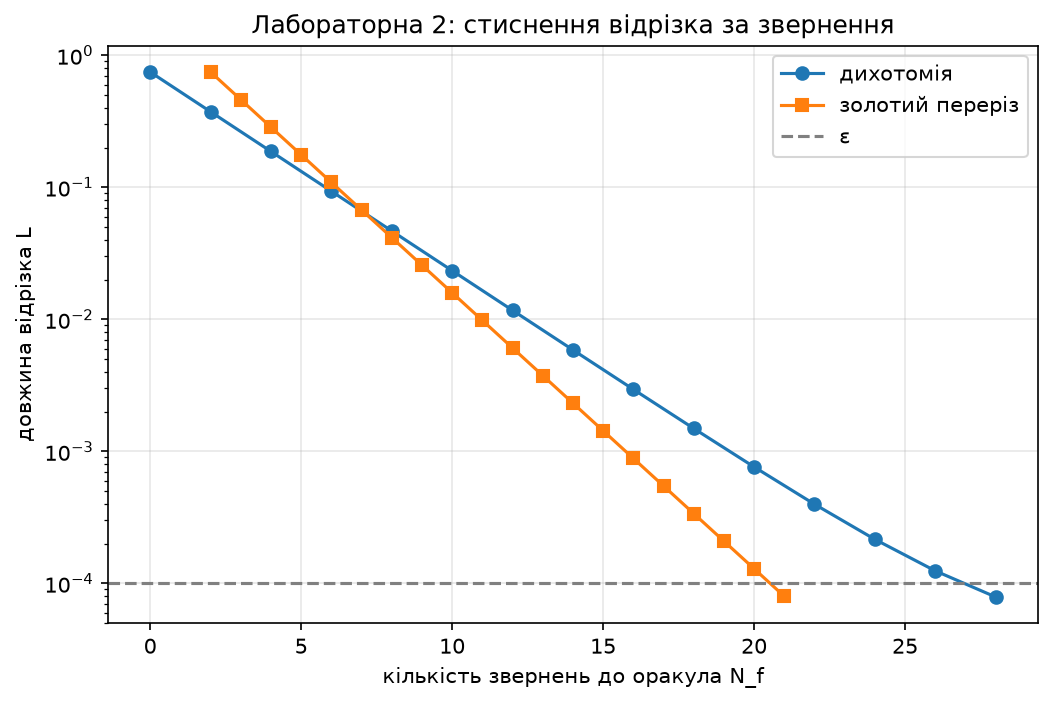
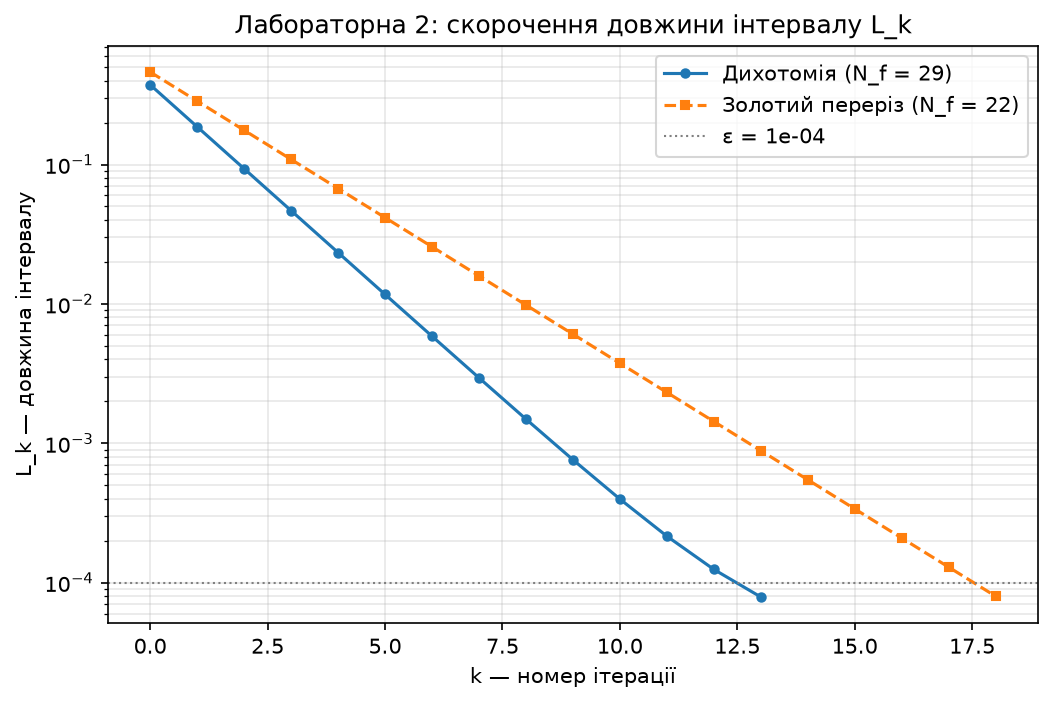
Додано файли проєкту

diff --git a/projectopt/main_lab2.py b/projectopt/main_lab2.py
@@ -15,21 +15,38 @@ from src.lab1_svenn import svenn
 from src.lab2_search import dichotomy, golden_section, TAU
 
 
-def print_rows(rows, head=6, tail=1):
-    print(f"{'k':>3} {'a_k':>9} {'b_k':>9} {'x1':>9} {'x2':>9} "
-          f"{'f(x1)':>11} {'f(x2)':>11} {'L_k':>10}  Рішення")
-    shown = rows[:head] + ([None] if len(rows) > head + tail else []) + rows[-tail:]
-    for r in shown:
-        if r is None:
-            print("  …")
-            continue
-        print(f"{r['k']:>3} {r['a']:>9.6f} {r['b']:>9.6f} {r['x1']:>9.6f} {r['x2']:>9.6f} "
-              f"{r['f1']:>11.8f} {r['f2']:>11.8f} {r['L']:>10.3e}  {r['decision']}")
+def fmt(x):
+    """Число як у таблицях сайту: 4 знаки після коми, без зайвих нулів (0.008, 0.712)."""
+    if x == 0:
+        return "0"
+    s = f"{x:.5f}" if abs(x) < 1e-4 else f"{x:.4f}"
+    return s.rstrip("0").rstrip(".")
 
 
-def compression(L_end, L0, n_f):
-    """Стиснення на одне звернення: (L_end / L0) ** (1 / N_f)."""
-    return (L_end / L0) ** (1.0 / n_f)
+def site_decision(text):
+    """Текст рішення в тому самому записі, що й на сайті."""
+    text = text.replace("→", "->").replace("успадкували", "успадковано")
+    return " ".join(text.split())
+
+
+def print_full_table(rows, golden=False):
+    """Друкує ВСІ рядки таблиці ітерацій (у форматі сайту)."""
+    head = (f"{'k':>3} {'a_k':>8} {'b_k':>8} {'x1':>8} {'x2':>8} "
+            f"{'f(x1)':>8} {'f(x2)':>8} {'L_k':>8}")
+    if golden:
+        head += f" {'Нова точка':>10}"
+    print(head + "  Рішення")
+    for r in rows:
+        line = (f"{r['k']:>3} {fmt(r['a']):>8} {fmt(r['b']):>8} {fmt(r['x1']):>8} {fmt(r['x2']):>8} "
+                f"{fmt(r['f1']):>8} {fmt(r['f2']):>8} {fmt(r['L']):>8}")
+        if golden:
+            line += f" {fmt(r['new']):>10}"
+        print(line + "  " + site_decision(r["decision"]))
+
+
+def compression(L_start, L_end, n_f):
+    """Стиснення на одне звернення: (L_кінець / L_початок) ** (1 / N_f)."""
+    return (L_end / L_start) ** (1.0 / n_f)
 
 
 def main():
@@ -44,6 +61,7 @@ def main():
     a0, b0 = br["a"], br["b"]
     L0 = b0 - a0
     print(f"Свенн: [{a0:.4f}, {b0:.4f}]  L0 = {L0:.4f}  N_f = {br['n_f']}")
+    print(f"Початковий інтервал з лаб. 1: [a0, b0] = [{a0:.6f}, {b0:.6f}], точність ε = {EPS:.0e}")
     print(f"tau = {TAU:.10f}   tau^2 = {TAU**2:.10f}   1 - tau = {1 - TAU:.10f}")
 
     # ---------- ручний перший крок ----------
@@ -55,37 +73,47 @@ def main():
     print(f"золотий,   1-й крок: x1 = {x1g:.7f}, x2 = {x2g:.7f}, "
           f"f = {oracle.peek(x1g):.8f}, {oracle.peek(x2g):.8f}")
 
-    # ---------- основні запуски (reset між методами обов'язковий!) ----------
+    # ---------- основні запуски ----------
     oracle.reset()
     res_d = dichotomy(oracle, a0, b0, EPS)
     oracle.reset()
     res_g = golden_section(oracle, a0, b0, EPS)
 
     print("\n===== Дихотомія =====")
-    print_rows(res_d["rows"])
-    print(f"x* = {res_d['x']:.6f}  f* = {res_d['f']:.8f}  "
-          f"ітерацій = {res_d['iterations']}  N_f = {res_d['n_f']}")
+    print_full_table(res_d["rows"])
+    print(f"x* = {res_d['x']:.6f}  f* = {res_d['f']:.8f}  ітерацій = {res_d['iterations']}  N_f = {res_d['n_f']}")
 
     print("\n===== Золотий переріз =====")
-    print_rows(res_g["rows"])
-    print(f"x* = {res_g['x']:.6f}  f* = {res_g['f']:.8f}  "
-          f"ітерацій = {res_g['iterations']}  N_f = {res_g['n_f']}")
+    print_full_table(res_g["rows"], golden=True)
+    print(f"x* = {res_g['x']:.6f}  f* = {res_g['f']:.8f}  ітерацій = {res_g['iterations']}  N_f = {res_g['n_f']}")
 
+    # перевірка успадкування: x2 (нова) == x1 (стара)
     r1, r2 = res_g["rows"][0], res_g["rows"][1]
-    print(f"\nуспадкування (крок 1→2): старе x1 = {r1['x1']:.10f}, "
-          f"нове x2 = {r2['x2']:.10f}, різниця = {abs(r1['x1'] - r2['x2']):.2e}")
+    print(f"\nуспадкування (крок 1→2): старе x1 = {r1['x1']:.10f}, нове x2 = {r2['x2']:.10f}, "
+          f"різниця = {abs(r1['x1'] - r2['x2']):.2e}")
 
-    # ---------- зведена таблиця ----------
-    print("\nЗведена таблиця:")
-    print(f"{'Метод':<16} {'σ*':>9} {'f(σ*)':>12} {'L кінець':>10} {'ітер':>5} {'N_f':>4} {'стиснення':>10}")
+    # ---------- порівняння методів ----------
+    nf_d, nf_g = res_d["n_f"], res_g["n_f"]
+    saving = 100.0 * (nf_d - nf_g) / nf_d
+    print("\nσ* (золотий переріз) =", f"{res_g['x']:.6f}")
+    print(f"N_f дихотомії = {nf_d}     N_f золотого перерізу = {nf_g}  ({nf_g - nf_d:+d} звернень)     Економія = {saving:.1f}%")
+
+    print("\nПорівняння методів:")
+    print(f"{'Метод':<16} {'x*':>8} {'f(x*)':>8} {'Довжина [a,b]':>14} {'Ітерацій':>9} {'N_f':>5} "
+          f"{'Стиснення (від L1)':>19} {'Стиснення (від L0)':>19}")
     for name, r in (("Дихотомія", res_d), ("Золотий переріз", res_g)):
         L_end = r["b"] - r["a"]
-        print(f"{name:<16} {r['x']:>9.6f} {r['f']:>12.8f} {L_end:>10.3e} {r['iterations']:>5} "
-              f"{r['n_f']:>4} {compression(L_end, L0, r['n_f']):>10.4f}")
-    print(f"\nтеорія: дихотомія ≈ {math.log2(L0 / EPS):.1f},  "
-          f"золотий ≈ {math.log(EPS / L0) / math.log(TAU):.1f} ітерацій")
+        L1 = r["rows"][0]["L"]
+        print(f"{name:<16} {fmt(r['x']):>8} {fmt(r['f']):>8} {fmt(L_end):>14} {r['iterations']:>9} {r['n_f']:>5} "
+              f"{compression(L1, L_end, r['n_f']):>19.4f} {compression(L0, L_end, r['n_f']):>19.4f}")
+    print(f"\nтеорія: дихотомія ≈ {math.log2(L0 / EPS):.1f},  золотий ≈ {math.log(EPS / L0) / math.log(TAU):.1f} ітерацій")
 
-    # ---------- відновлення зображення ----------
+    print(f"\nВисновок лаб. 2. Золотий переріз досяг тієї самої точності за {nf_g} звернень проти {nf_d} "
+          f"у дихотомії (економія {saving:.1f}%), хоча виконав більше ітерацій "
+          f"({res_g['iterations']} проти {res_d['iterations']}). Мірою вартості методу є "
+          f"оракульна складність, а не кількість ітерацій.")
+
+    # ---------- зображення ----------
     sigma_star = res_g["x"]
     restored = gaussian_blur(noisy, sigma_star)
     save_png(restored, "outputs/lab2_restored.png")
@@ -93,29 +121,30 @@ def main():
     print(f"було:  MSE = {mse(noisy, clean):.8f}   PSNR = {psnr(noisy, clean):.4f} дБ")
     print(f"стало: MSE = {mse(restored, clean):.8f}   PSNR = {psnr(restored, clean):.4f} дБ")
 
-    # ---------- графік збіжності ----------
-    plt.figure(figsize=(8, 5))
-    nd = [2 * r["k"] for r in res_d["rows"]]
-    ng = [r["n_f"] for r in res_g["rows"]]
-    plt.semilogy([0] + nd, [L0] + [r["L"] for r in res_d["rows"]], "o-", label="дихотомія")
-    plt.semilogy([2] + ng, [L0] + [r["L"] for r in res_g["rows"]], "s-", label="золотий переріз")
-    plt.axhline(EPS, color="gray", linestyle="--", label="ε")
-    plt.xlabel("кількість звернень до оракула N_f")
-    plt.ylabel("довжина відрізка L")
-    plt.title("Лабораторна 2: стиснення відрізка за звернення")
-    plt.legend()
-    plt.grid(alpha=0.3)
-    plt.savefig("outputs/lab2_compare.png", dpi=150, bbox_inches="tight")
+        # ---------- графік: L_k за ітераціями ----------
+    fig, ax = plt.subplots(figsize=(8, 5))
+    ax.semilogy(range(len(res_d["rows"])), [r["L"] for r in res_d["rows"]],
+                "o-", ms=4, lw=1.5, label=f"Дихотомія (N_f = {res_d['n_f']})")
+    ax.semilogy(range(len(res_g["rows"])), [r["L"] for r in res_g["rows"]],
+                "s--", ms=4, lw=1.5, label=f"Золотий переріз (N_f = {res_g['n_f']})")
+    ax.axhline(EPS, color="gray", lw=1, ls=":", label=f"ε = {EPS:.0e}")
+    ax.set_title("Лабораторна 2: скорочення довжини інтервалу L_k")
+    ax.set_xlabel("k — номер ітерації")
+    ax.set_ylabel("L_k — довжина інтервалу")
+    ax.grid(alpha=0.3, which="both")
+    ax.legend()
+    fig.savefig("outputs/lab2_compare.png", dpi=150, bbox_inches="tight")
+    plt.close(fig)
 
-    # ---------- дослід 1: ε / 10 ----------
+    # ---------- дослід 1: eps / 10 ----------
     print("\n===== Дослід 1: ε / 10 =====")
     eps2 = EPS / 10
     oracle.reset(); d2 = dichotomy(oracle, a0, b0, eps2)
     oracle.reset(); g2 = golden_section(oracle, a0, b0, eps2)
-    print(f"дихотомія: ітер {res_d['iterations']} → {d2['iterations']} "
-          f"(+{d2['iterations'] - res_d['iterations']}), N_f {res_d['n_f']} → {d2['n_f']}")
-    print(f"золотий:   ітер {res_g['iterations']} → {g2['iterations']} "
-          f"(+{g2['iterations'] - res_g['iterations']}), N_f {res_g['n_f']} → {g2['n_f']}")
+    print(f"дихотомія: ітер {res_d['iterations']} → {d2['iterations']} (+{d2['iterations'] - res_d['iterations']}), "
+          f"N_f {res_d['n_f']} → {d2['n_f']}")
+    print(f"золотий:   ітер {res_g['iterations']} → {g2['iterations']} (+{g2['iterations'] - res_g['iterations']}), "
+          f"N_f {res_g['n_f']} → {g2['n_f']}")
     print(f"теорія: +{math.log2(10):.1f} (дихотомія), +{math.log(10) / math.log(1 / TAU):.1f} (золотий)")
 
     # ---------- дослід 2: delta = eps ----------

diff --git a/projectopt/main_lab5.py b/projectopt/main_lab5.py
@@ -24,26 +24,31 @@ def main():
     # ================= 5.1. сире спостереження =================
     out = int(np.sum((raw < 0) | (raw > 1)))
     print("сире спостереження:")
-    print(f"   поза [0, 1]:  {out} пікселів із {raw.size} ({100 * out / raw.size:.2f} %)")
-    print(f"   найменше значення: {raw.min():.4f}      найбільше: {raw.max():.4f}")
+    print(f"  поза [0, 1]:  {out} пікселів із {raw.size} ({100 * out / raw.size:.2f} %)")
+    print(f"  найменше значення: {raw.min():.4f}      найбільше: {raw.max():.4f}")
 
     unconstrained = tikhonov_exact(raw, lam)            # безумовний розв'язок на raw
     v_u = violation(unconstrained)
     print("\nбезумовний розв'язок:")
-    print(f"   поза Ω:  {v_u['count']} пікселів ({100 * v_u['count'] / raw.size:.2f} %)")
-    print(f"   максимальне порушення: {v_u['max']:.6f}")
-    print(f"   E = {energy(unconstrained, raw, lam):.8f}")
+    print(f"  поза Ω:  {v_u['count']} пікселів ({100 * v_u['count'] / raw.size:.2f} %)")
+    print(f"  максимальне порушення: {v_u['max']:.6f}")
+    print(f"  E = {energy(unconstrained, raw, lam):.8f}")
 
-    plt.figure(figsize=(9, 4))
-    plt.hist(raw.ravel(), bins=120, alpha=0.55, label="сире спостереження")
-    plt.hist(unconstrained.ravel(), bins=120, alpha=0.55, label="безумовний розв'язок")
-    plt.axvline(0.0, color="red", ls="--", label="межі допустимої області")
-    plt.axvline(1.0, color="red", ls="--")
-    plt.xlabel("яскравість пікселя")
-    plt.ylabel("кількість пікселів")
-    plt.legend()
-    plt.savefig("outputs/lab5_histogram.png", dpi=150, bbox_inches="tight")
-    plt.close()
+    edges = np.linspace(raw.min(), raw.max(), 121)       # однакові стовпчики для обох
+    fig, ax = plt.subplots(figsize=(9, 4))
+    ax.hist(raw.ravel(), bins=120, color="tab:green", alpha=0.45,
+            label=f"сире спостереження (поза [0, 1]: {out})")
+    ax.hist(unconstrained.ravel(), bins=120, histtype="step", lw=1.6,
+            color="tab:purple",
+            label=f"безумовний розв'язок (поза [0, 1]: {v_u['count']})")
+    ax.axvline(0.0, color="black", ls=":", lw=1.2, label="межі допустимої області")
+    ax.axvline(1.0, color="black", ls=":", lw=1.2)
+    ax.set_xlabel("яскравість пікселя")
+    ax.set_ylabel("кількість пікселів")
+    ax.set_title("Лабораторна 5: розподіл яскравостей")
+    ax.legend()
+    fig.savefig("outputs/lab5_histogram.png", dpi=150, bbox_inches="tight")
+    plt.close(fig)
 
     # ================= 5.3–5.5. проєкція градієнта =================
     res_pg = projected_gradient(raw, lam, L)
@@ -85,18 +90,19 @@ def main():
     print(f"штраф дорожчий у {(res_pen['n_f'] + res_pen['n_grad']) / (res_pg['n_f'] + res_pg['n_grad']):.1f} раза")
 
     # графік і зображення
-    E_star = res_pg["E"]
-    plt.figure(figsize=(9, 5))
-    for name, res in (("Проєкція градієнта", res_pg), ("FISTA", res_fi)):
-        ys = [max(r["E"] - E_star, 1e-16) for r in res["rows"]]
-        plt.semilogy(range(len(ys)), ys, label=name)
-    plt.xlabel("номер ітерації")
-    plt.ylabel("E(I_k) − E*")
-    plt.title("Лабораторна 5: збіжність проєкційних методів")
-    plt.legend()
-    plt.grid(alpha=0.3)
-    plt.savefig("outputs/lab5_convergence.png", dpi=150, bbox_inches="tight")
-    plt.close()
+    fig, ax = plt.subplots(figsize=(8, 5))
+    ax.semilogy(range(len(res_pg["rows"])), [r["E"] for r in res_pg["rows"]],
+                "o-", ms=3, lw=1.3, markevery=5, label="Проєкція градієнта")
+    ax.semilogy(range(len(res_fi["rows"])), [r["E"] for r in res_fi["rows"]],
+                "s--", ms=3, lw=1.3, markevery=5, label="FISTA")
+    ax.axhline(res_pg["E"], color="gray", ls=":", lw=1, label=f"E* = {res_pg['E']:.4f}")
+    ax.set_xlabel("k — номер ітерації")
+    ax.set_ylabel("E(I_k) (логарифмічна шкала)")
+    ax.set_title("Лабораторна 5: збіжність проєкційних методів")
+    ax.grid(alpha=0.3, which="both")
+    ax.legend()
+    fig.savefig("outputs/lab5_convergence.png", dpi=150, bbox_inches="tight")
+    plt.close(fig)
 
     save_png(res_pg["I"], "outputs/lab5_restored.png")
     p5 = psnr(res_pg["I"], clean)

diff --git a/projectopt/src/lab5_constrained.py b/projectopt/src/lab5_constrained.py
@@ -17,7 +17,7 @@ def violation(I, lower=0.0, upper=1.0):
 
 
 def projected_gradient(raw, lam, L, accelerated=False, max_iter=200, tol=1e-6,
-                       criterion="map"):
+                       criterion="map", x_ref=None):
     """Метод проєкції градієнта; accelerated=True вмикає прискорення (FISTA).
 
     criterion: 'map'  — правильний, за нормою градієнтного відображення ‖G_h‖;
@@ -41,8 +41,9 @@ def projected_gradient(raw, lam, L, accelerated=False, max_iter=200, tol=1e-6,
         active = int(np.count_nonzero((I <= 1e-12) | (I >= 1.0 - 1e-12)))
         v = violation(I)
         e_k = energy(I, raw, lam); n_f += 1
-        rows.append({"k": k - 1, "E": e_k, "G": g_map, "grad": g_norm,
-                     "active": active, "violation": v["max"],
+        dist = float(np.linalg.norm(I - x_ref)) if x_ref is not None else None
+        rows.append({"k": k - 1, "E": e_k, "G": g_map, "grad": g_norm, "h": h,
+                     "dist": dist, "active": active, "violation": v["max"],
                      "n_f": n_f, "n_grad": n_grad})
 
         measure = g_map if criterion == "map" else g_norm
@@ -61,7 +62,7 @@ def projected_gradient(raw, lam, L, accelerated=False, max_iter=200, tol=1e-6,
             "converged": converged, "rows": rows}
 
 
-# метод штрафів
+# ---------------------------- метод штрафів ----------------------------
 
 def penalty_value(I, lower=0.0, upper=1.0):
     """P(I) — сума квадратів усіх порушень."""

diff --git a/projectopt/main_lab3.py b/projectopt/main_lab3.py
@@ -112,6 +112,22 @@ def main():
     plt.title("Лабораторна 3: лінії рівня і траєкторії методів")
     plt.legend()
     plt.savefig("outputs/lab3_contours.png", dpi=150, bbox_inches="tight")
+    
+    # ---------- спадання цільової функції ----------
+    fig, ax = plt.subplots(figsize=(8, 5))
+    ax.semilogy(range(len(nm["rows"])), [r["f"] for r in nm["rows"]],
+                "o-", ms=3, lw=1.5, markevery=5, color="tab:blue", label="Нелдер—Мід")
+    ax.semilogy(range(len(pw["rows"])), [r["f"] for r in pw["rows"]],
+                "s--", ms=5, lw=1.5, color="tab:orange", label="Пауелл")
+    ax.axhline(nm["f"], color="gray", lw=1, ls=":", label=f"f* = {nm['f']:.6f}")
+    ax.xaxis.set_major_locator(plt.MaxNLocator(integer=True))
+    ax.set_xlabel("k — номер ітерації (цикл для Пауелла)")
+    ax.set_ylabel("f(θ_k) — MSE (логарифмічна шкала)")
+    ax.set_title("Лабораторна 3: збіжність методів")
+    ax.grid(alpha=0.3, which="both")
+    ax.legend()
+    fig.savefig("outputs/lab3_convergence.png", dpi=150, bbox_inches="tight")
+    plt.close(fig)
 
     # ================= ДОСЛІДИ =================
     # --- 1: розмір початкового трикутника

diff --git a/projectopt/main_lab4.py b/projectopt/main_lab4.py
@@ -161,24 +161,5 @@ def main():
     print("k :", [0, 10, 20, 30, 40])
     print("E :", [round(r["rows"][k]["E"], 2) for k in (0, 10, 20, 30, 40)])
 
-    # --- 3: вплив λ
-    print("\n===== Дослід 3: PSNR від λ =====")
-    for l in (0.05, 0.24, lam, 1.0, 5.0):
-        p = psnr(np.clip(tikhonov_exact(noisy, l), 0.0, 1.0), clean)
-        mark = "  ← λ*" if l == lam else ""
-        print(f"λ = {l:.6f}   PSNR = {p:.4f} дБ{mark}")
-    grid = np.logspace(-2, 1.0, 60)
-    ps = [psnr(np.clip(tikhonov_exact(noisy, l), 0.0, 1.0), clean) for l in grid]
-    plt.figure(figsize=(8, 5))
-    plt.semilogx(grid, ps)
-    plt.axvline(lam, color="red", linestyle="--", label=f"λ* = {lam:.3f}")
-    plt.xlabel("λ")
-    plt.ylabel("PSNR, дБ")
-    plt.title("Лабораторна 4: вплив λ на якість")
-    plt.legend()
-    plt.grid(alpha=0.3)
-    plt.savefig("outputs/lab4_psnr_vs_lambda.png", dpi=150, bbox_inches="tight")
-
-
 if __name__ == "__main__":
     main()
